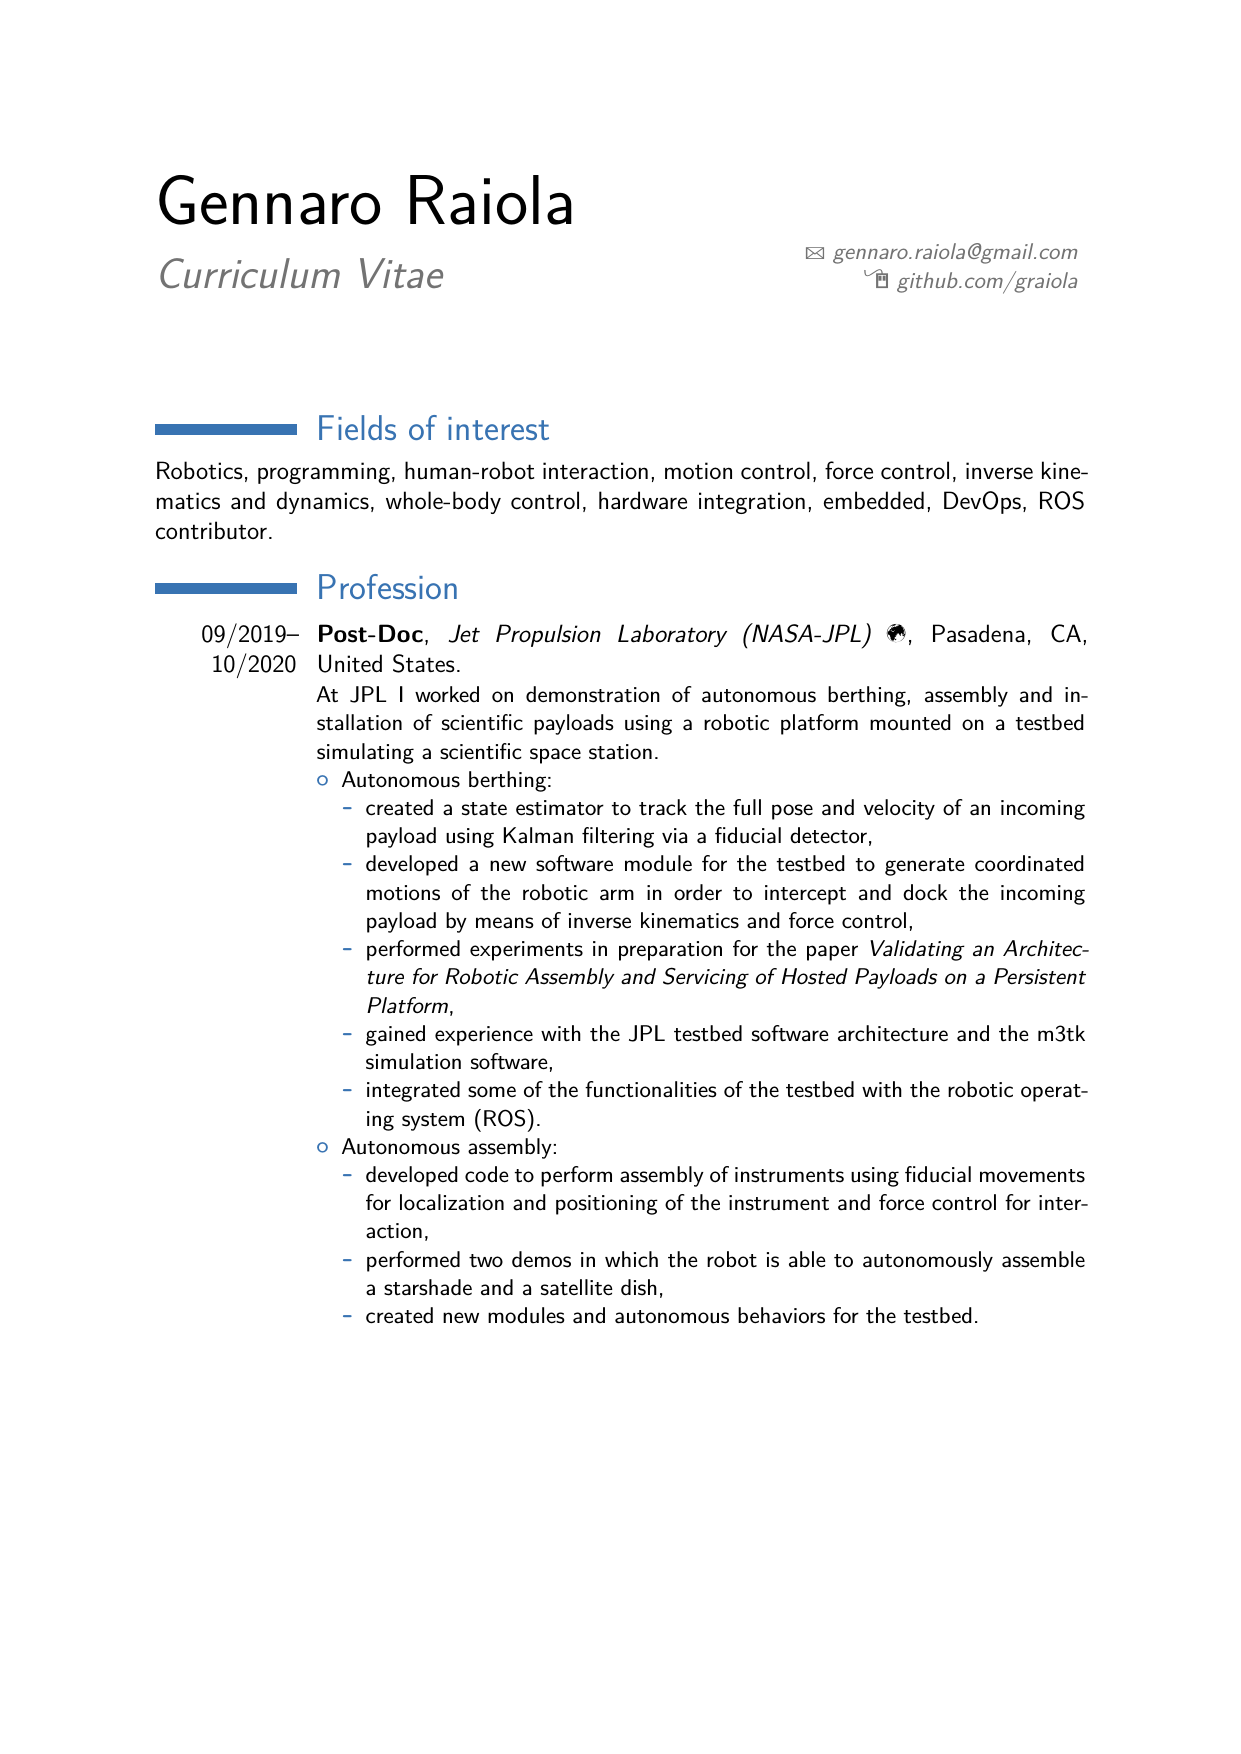
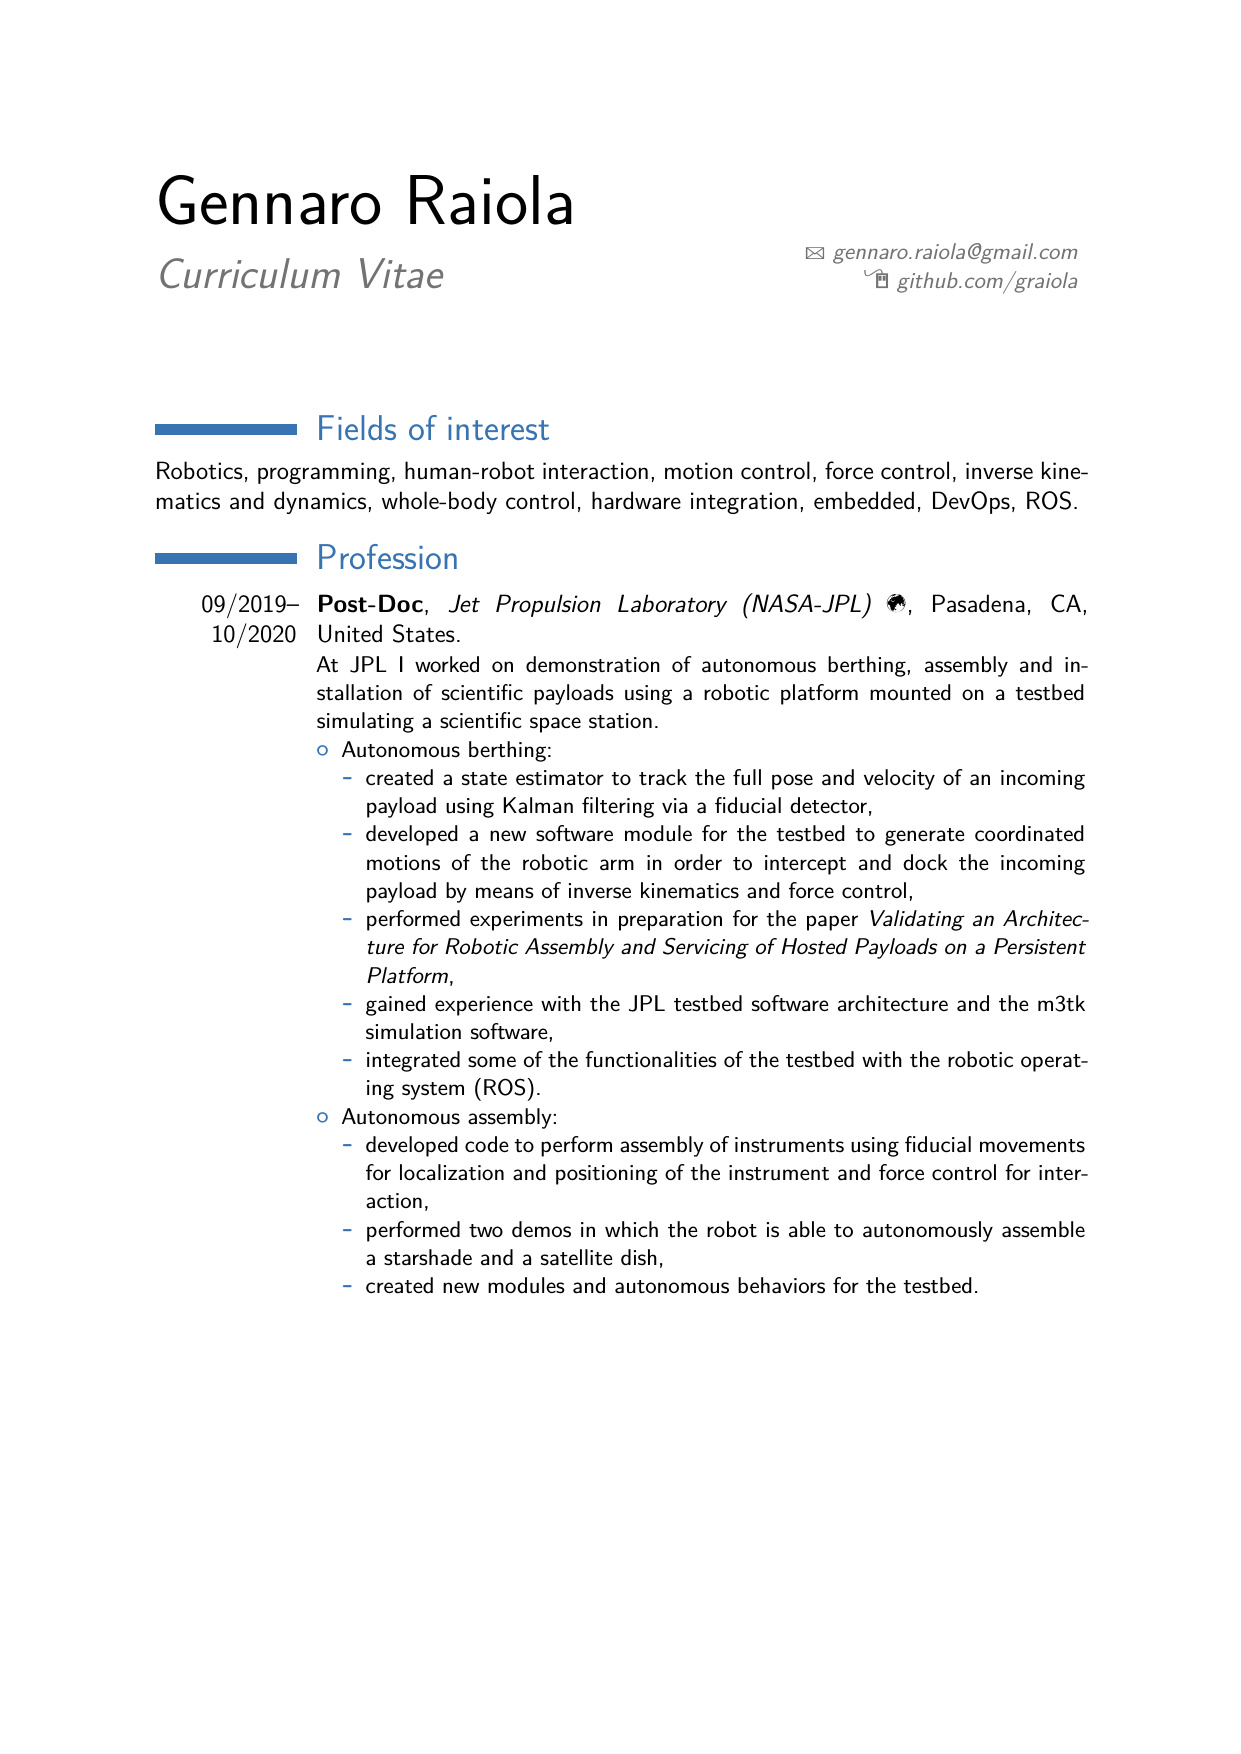
Generated files updated on Fri Nov 20 05:51:12 EST 2020

Changed region(s): [[0.1225, 0.2771, 0.888, 0.7697]]

diff --git a/CV_Gennaro-Raiola.tex b/CV_Gennaro-Raiola.tex
@@ -79,7 +79,7 @@
 
 
 \section{Fields of interest}
-Robotics, programming, human-robot interaction, motion control, force control, inverse kinematics and dynamics, whole-body control, hardware integration, embedded, DevOps, ROS contributor.
+Robotics, programming, human-robot interaction, motion control, force control, inverse kinematics and dynamics, whole-body control, hardware integration, embedded, DevOps, ROS.
 
 \section{Profession}
 
